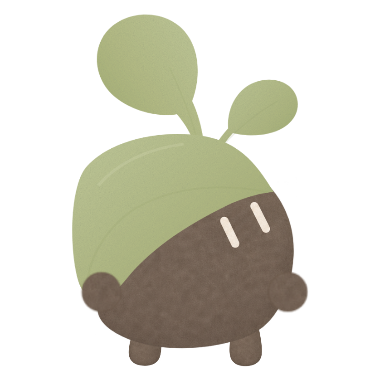
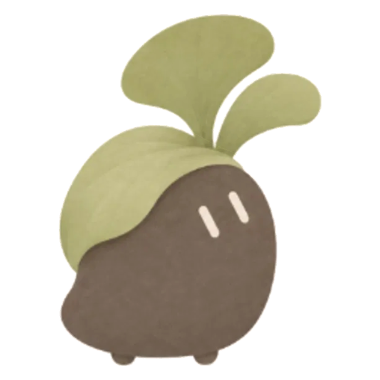
0.6.18: draw Ellisii from the approved target art (no arms)
The user asked for Ellisii to look exactly like the approved target art.
The art is cut into two layers in one coordinate frame:
- ellisii-fronds.png: the two fertile fronds (gentle sway, still when
  reduced motion is on)
- ellisii-body.png: asymmetric body, draped nest leaf, ivory eyes, tiny feet
ellisiiActor draws them with bob/tilt/squash and a closed-eye overlay that
reuses the body texture (no mouth or cheeks). No arm or leg sprites, as in
the art (species exception, like Elephan). The old leaf SVGs and the SVG
portrait are removed; the portrait is baked from the rig.
Tests updated (218/218, UI PASS). 0.6.18 / versionCode 35.

Claude-Session: https://claude.ai/code/session_01AkSebmy3Y1v8yPfHbxXfQs

Changed region(s): [[0.1447, 0.0289, 0.8684, 0.9842]]

diff --git a/app/src/main/assets/web/species-rig.js b/app/src/main/assets/web/species-rig.js
@@ -7,7 +7,7 @@ const cfg={duri:{w:.92,h:.98,leaf:[-14.3,-37.2,28.6,27.6],tempo:1.12,amp:1.2}};
 let mesh={};
 function initMesh(){if(!mesh.duri)mesh.duri=new (typeof Path2D!=='undefined'?Path2D:require('@napi-rs/canvas').Path2D)('M464 784 C464 730 456 700 438 687 C424 722 390 751 379 727 C370 705 400 679 410 666 C363 699 321 693 312 671 C304 651 328 637 370 621 C301 648 244 647 235 621 C228 592 284 567 359 558 C289 570 245 601 223 579 C202 554 261 518 331 499 C388 482 449 501 478 536 C491 552 509 570 518 584 C506 546 471 506 446 484 C406 464 394 431 413 415 C430 403 455 421 481 446 C450 407 457 367 477 364 C507 357 526 412 546 455 C563 489 568 518 571 540 C615 510 649 480 672 445 C697 406 699 377 678 350 C626 337 567 322 514 311 C452 297 407 284 414 261 C418 237 462 232 502 244 C552 262 589 281 614 297 C581 265 548 228 568 209 C590 185 628 220 652 243 C630 206 615 167 640 152 C674 135 706 169 722 206 C744 250 756 306 759 350 C771 306 777 254 792 212 C810 170 836 128 867 121 C909 114 915 144 899 173 C880 206 857 227 849 249 C888 217 929 194 958 207 C994 224 974 255 951 269 C1013 246 1064 252 1080 280 C1092 311 1045 331 996 348 C925 374 858 396 828 416 C812 433 800 462 799 494 C821 463 848 428 877 417 C907 405 921 425 903 448 C924 424 954 397 975 407 C998 423 980 454 962 478 C1008 459 1069 464 1083 488 C1094 517 1047 533 995 538 C953 541 921 555 907 575 C956 554 1022 555 1045 580 C1066 604 1037 624 999 623 C1053 636 1070 664 1052 682 C1036 700 1008 688 979 673 C1005 709 998 733 980 734 C953 738 945 704 934 681 C914 650 884 625 859 608 C817 579 790 554 767 533 C737 558 708 576 673 598 C590 648 516 721 464 784 Z');}
 const data={
-bonbon:{file:'exec-943eda32-df30-471b-a1df-31dea1a2b879.png',body:[60,140,520,492],leaf:[650,40,580,660],arms:[[98,840,209,350],[326,840,195,350]],legs:[[725,911,170,230],[957,910,172,231]],w:17,h:16.1,fol:[-13,-33,22,25.1],shield:[-13,-24,22,20],tempo:.72,eyes:[[.67,.37],[.83,.29]]},
+bonbon:{file:'exec-943eda32-df30-471b-a1df-31dea1a2b879.png',body:[60,140,520,492],leaf:[650,40,580,660],arms:[[98,840,209,350],[326,840,195,350]],legs:[[725,911,170,230],[957,910,172,231]],w:17,h:16.1,fol:[-13,-33,22,25.1],tempo:.72,eyes:[[.67,.37],[.83,.29]]},
 neolbi:{file:'exec-61298b59-50e2-4855-8d96-66ee5a637739.png',body:[65,185,529,350],leaf:[619,150,615,338],legs:[[750,893,132,90],[985,893,133,91]],w:32,h:21.2,fol:[-23,-32,46,25.3],tempo:.62,eyes:[[.49,.47],[.68,.47]]},
 bosong:{file:'exec-fca40df4-cab5-4d71-9958-52906ecf61a3.png',body:[173,65,330,563],leaf:[770,29,342,617],arms:[[131,835,156,351],[346,835,154,351]],legs:[[748,895,145,269],[952,895,147,269]],w:14,h:23.9,fol:[-9.2,-40.3,20,30.6],tempo:.8,eyes:[[.44,.37],[.74,.37]]},
 jureong:{file:'exec-934c2ffe-237d-42c0-9c88-f18cd5ea9a42.png',body:[52,246,541,258],leaf:[626,169,615,367],legs:[[752,906,150,104],[963,904,149,105]],w:38,h:18.1,fol:[-27,-33,54,32.2],tempo:.93,eyes:[[.34,.53],[.57,.53]]}
@@ -46,8 +46,19 @@ function duriActor(c,k,x,y,t,pose={}){
 }
 function img(c,d,r,x,y,w,h){c.drawImage(d.im,...r,x,y,w,h);if(r===d.leaf&&d.snow>0){const E=typeof module==='object'?require('./world-effects.js'):globalThis.ForestEffects;if(!d.snowLeaf){d.snowLeaf=createCanvas(r[2],r[3]);d.snowLeaf.getContext('2d').drawImage(d.im,...r,0,0,r[2],r[3]);}E.snow(c,d.snowLeaf,d.snow,x,y,w,h);}}
 function hatLayer(c,d,t,p,inside){const held=p.mode==='held',amp=held?.055:.012,phase=0,angle=(p.leafAngle||0)+Math.sin(t*5+phase)*amp;c.save();c.translate(0,-d.h*.83);c.rotate(angle);c.translate(0,d.h*.83);if(inside)c.drawImage(d.hat,243,876,865,338,-14,-22.5,29,12);else c.drawImage(d.hat,85,40,1090,645,-23,-35.5,46,27.2);c.restore();}
-function leafLayer(c,d,t,p){if(d===data.bonbon){const f=d.fol,held=p.mode==='held',wiggle=p.reduced?0:Math.sin(t*d.tempo*1.5)*(held?.020:.008);for(const [index,layer] of [A.ellisiiFertileLeft,A.ellisiiFertileRight,A.ellisiiShield].entries()){if(!layer)continue;c.save();c.translate(0,-d.h*.98);c.rotate(index===2?wiggle*.12:wiggle*(index===0?1:-.85));c.translate(0,d.h*.98);c.drawImage(layer,...(index===2&&d.shield?d.shield:f));c.restore();}return;}if(d===data.bosong){img(c,d,d.leaf,...d.fol);return;}if(d.hat){hatLayer(c,d,t,p,false);return;}const f=d.fol,held=p.mode==='held',safe=d===data.bosong?.018:.045,ang=(p.leafAngle||0)+Math.sin(t*(held?5:d.tempo*1.5))*(held?safe:.012);c.save();c.translate(0,-d.h*.78);c.rotate(ang);c.translate(0,d.h*.78);img(c,d,d.leaf,...f);c.restore();}
-function actor(c,k,x,y,t,p={}){if(!data[k])return duriActor(c,k,x,y,t,p);const d=data[k],g=p.growth??.65,m=p.mode||'idle',walk=['walk','run','slow'].includes(m),beat=Math.sin(t*d.tempo*(m==='run'?12:8)),rest=p.rest??(['sleep','rest','moss'].includes(m)?1:0),bob=walk?-Math.abs(beat)*.65:m==='held'?Math.sin(t*7)*.22:Math.sin(t*1.4)*.09;
+function leafLayer(c,d,t,p){if(d===data.bosong){img(c,d,d.leaf,...d.fol);return;}if(d.hat){hatLayer(c,d,t,p,false);return;}const f=d.fol,held=p.mode==='held',safe=d===data.bosong?.018:.045,ang=(p.leafAngle||0)+Math.sin(t*(held?5:d.tempo*1.5))*(held?safe:.012);c.save();c.translate(0,-d.h*.78);c.rotate(ang);c.translate(0,d.h*.78);img(c,d,d.leaf,...f);c.restore();}
+// Ellisii (legacy key 'bonbon') is drawn from layers cut out of the user-approved target art (01_APPROVED_Ellisii_TARGET):
+// back fertile fronds (gentle sway) + one body layer (body, draped nest leaf, eyes, tiny feet). No arms, as in the target.
+const ELLI={rect:[-10.23,-33,24.63,33],pivot:{x:3.33,y:-21.35},eyes:[[3.84,-13.54],[6.61,-14.9]],eyeR:[1.15,1.8],patch:[238,450,50,70]};
+function ellisiiActor(c,x,y,t,p){const d=data.bonbon,g=p.growth??.65,m=p.mode||'idle',walk=['walk','run','slow'].includes(m),beat=Math.sin(t*d.tempo*(m==='run'?12:8)),rest=p.rest??(['sleep','rest','moss'].includes(m)?1:0),bob=walk?-Math.abs(beat)*.65:m==='held'?Math.sin(t*7)*.22:Math.sin(t*1.4)*.09,body=A.ellisiiBody,fronds=A.ellisiiFronds,r=ELLI.rect;
+ c.save();c.translate(x,y);c.scale(g,g);c.translate(0,bob+rest*.7-(p.lift||0));c.rotate((p.tilt||0)+(m==='held'?Math.sin(t*5)*.075:walk?beat*.03:0));
+ const squash=walk?1-Math.abs(beat)*.025:rest?.985:1;c.scale(1/Math.sqrt(squash),squash);
+ if(fronds){const sway=p.reduced?0:Math.sin(t*d.tempo*1.5)*(m==='held'?.06:.025)+(walk?beat*.02:0);c.save();c.translate(ELLI.pivot.x,ELLI.pivot.y);c.rotate(sway);c.translate(-ELLI.pivot.x,-ELLI.pivot.y);c.drawImage(fronds,...r);c.restore();}
+ if(body)c.drawImage(body,...r);
+ // Closed eyes: cover each eye with plain body texture from the same layer, then draw a soft lid line. No mouth or cheeks.
+ if(body&&(m==='sleep'||m==='rest'||m==='moss'))for(const [ex,ey] of ELLI.eyes){c.save();c.beginPath();c.ellipse(ex,ey,ELLI.eyeR[0]+.25,ELLI.eyeR[1]+.25,0,0,7);c.clip();const q=ELLI.patch;c.drawImage(body,q[0],q[1],q[2],q[3],ex-1.8,ey-2.5,3.6,5);c.restore();c.strokeStyle='#f6ebd3';c.lineWidth=.42;c.lineCap='round';c.beginPath();c.moveTo(ex-.7,ey+.3);c.quadraticCurveTo(ex,ey+.9,ex+.7,ey+.3);c.stroke();}
+ c.restore();const toWorld=h=>({x:x+h.x*g,y:y+(h.y+bob+rest*.7-(p.lift||0))*g}),tip=toWorld({x:r[0]+3,y:-8});return{hands:[],tip,face:{x,y:y-16*g*.55},width:20.5*g,height:33*g};}
+function actor(c,k,x,y,t,p={}){if(k==='bonbon')return ellisiiActor(c,x,y,t,p);if(!data[k])return duriActor(c,k,x,y,t,p);const d=data[k],g=p.growth??.65,m=p.mode||'idle',walk=['walk','run','slow'].includes(m),beat=Math.sin(t*d.tempo*(m==='run'?12:8)),rest=p.rest??(['sleep','rest','moss'].includes(m)?1:0),bob=walk?-Math.abs(beat)*.65:m==='held'?Math.sin(t*7)*.22:Math.sin(t*1.4)*.09;
 c.save();c.translate(x,y);c.scale(g,g);c.translate(0,bob+rest*.7-(p.lift||0));c.rotate((p.tilt||0)+(m==='held'?Math.sin(t*5)*.075:0));if(d.hat)hatLayer(c,d,t,p,true);
 for(let i=0;i<2;i++){const s=i?1:-1;c.save();c.translate(s*d.w*.25,k==='bonbon'?-2.2:-3);c.rotate(walk?s*beat*.35:m==='held'?s*Math.sin(t*10+i)*.62:m==='splash'?s*Math.sin(t*7)*.25:0);img(c,d,d.legs[i],k==='bonbon'?-1.55:-1.9,k==='bonbon'?-2:-2.2,k==='bonbon'?3.1:3.8,k==='bonbon'?4.2:5.7);c.restore();}
 if(k==='bosong'){c.save();c.beginPath();c.ellipse(0,-d.h/2-1.5,d.w/2,d.h/2,0,0,Math.PI*2);c.clip();img(c,d,d.body,-d.w/2,-d.h-1.5,d.w,d.h);c.restore();}else img(c,d,d.body,-d.w/2,-d.h-1.5,d.w,d.h);
@@ -68,7 +79,7 @@ const f=d.fol,tip=k==='jureong'?{x:f[0]+2,y:f[1]+f[3]-3}:{x:f[0]+5,y:f[1]+f[3]-2
 const la=(p.leafAngle||0)+Math.sin(t*d.tempo*1.5)*.012, pivot=-d.h*.78, tx=tip.x,ty=tip.y-pivot;tip.x=tx*Math.cos(la)-ty*Math.sin(la);tip.y=pivot+tx*Math.sin(la)+ty*Math.cos(la);
 c.restore();const toWorld=h=>({x:x+h.x*g,y:y+(h.y+bob+rest*.7-(p.lift||0))*g});return{hands:hands.map(toWorld),tip:toWorld(tip),face:{x,y:y-d.h*g*.55},width:d.w*g,height:d.h*g};}
 
-const files={ellisiiFertileLeft:'assets/forest/species/ellisii-fertile-left.svg',ellisiiFertileRight:'assets/forest/species/ellisii-fertile-right.svg',ellisiiShield:'assets/forest/species/ellisii-shield.svg'};for(const k of ['bonbon','bosong','jureong','duri'])files['species_'+k]='assets/forest/species/'+k+'.png';
-function draw(c,assets,opt){const k=opt.species;if(!['bonbon','bosong','jureong','duri'].includes(k))return false;for(const name of Object.keys(data)){data[name].im=assets['species_'+name];data[name].snow=opt.snow||0;}A={snow:opt.snow||0,ellisiiFertileLeft:assets.ellisiiFertileLeft,ellisiiFertileRight:assets.ellisiiFertileRight,ellisiiShield:assets.ellisiiShield,body:assets.rigBody,palm:assets.rigPalm,'leg-left':assets.rigLegLeft,'leg-right':assets.rigLegRight,duri:assets.species_duri,duriBounds:[223,121,869,663]};if(k==='duri')initMesh();c.save();c.translate(627,1065.9);c.scale(1254/48,1254/48);actor(c,k,0,0,opt.reduced?1:opt.phase,{mode:opt.kind,growth:1,expr:opt.expression,noShadow:true,reduced:opt.reduced});c.restore();return true;}
+const files={ellisiiBody:'assets/forest/species/ellisii-body.png',ellisiiFronds:'assets/forest/species/ellisii-fronds.png'};for(const k of ['bonbon','bosong','jureong','duri'])files['species_'+k]='assets/forest/species/'+k+'.png';
+function draw(c,assets,opt){const k=opt.species;if(!['bonbon','bosong','jureong','duri'].includes(k))return false;for(const name of Object.keys(data)){data[name].im=assets['species_'+name];data[name].snow=opt.snow||0;}A={snow:opt.snow||0,ellisiiBody:assets.ellisiiBody,ellisiiFronds:assets.ellisiiFronds,body:assets.rigBody,palm:assets.rigPalm,'leg-left':assets.rigLegLeft,'leg-right':assets.rigLegRight,duri:assets.species_duri,duriBounds:[223,121,869,663]};if(k==='duri')initMesh();c.save();c.translate(627,1065.9);c.scale(1254/48,1254/48);actor(c,k,0,0,opt.reduced?1:opt.phase,{mode:opt.kind,growth:1,expr:opt.expression,noShadow:true,reduced:opt.reduced});c.restore();return true;}
 return {files,draw};
 });

diff --git a/app/src/main/assets/web/engine.js b/app/src/main/assets/web/engine.js
@@ -9,7 +9,7 @@ const Sh=typeof module==='object'?require('./shelter.js'):globalThis.ForestShelt
 const Env=typeof module==='object'?require('./environment.js'):globalThis.ForestEnvironment;
 const Rec=typeof module==='object'?require('./recruitment.js'):globalThis.ForestRecruitment;
 const Obj=typeof module==='object'?require('./objects.js'):globalThis.ForestObjects;
-const VERSION='0.6.17', RULES='SRS-2.19-objects', SCHEMA=1;
+const VERSION='0.6.18', RULES='SRS-2.19-objects', SCHEMA=1;
 const LEVELS=[0,3,8,15,25,40,60,85,115,150];
 const PATCHES=[
  {id:'rock',name:'햇살 바위',cap:2,pool:12,infiltration:4,drain:6,exposure:1,x:.73,y:.32},

diff --git a/HANDOFF.md b/HANDOFF.md
@@ -24,7 +24,7 @@
 | ChatGPT GitHub 연결 | 저장소 읽기 및 push 권한 확인 |
 | Claude 계정/저장소 접근 | 로그인 및 Git 경로로 이 저장소의 원격 main 읽기 확인 |
 | 공통 기록 대조 | 완료 — 아래 확인 스냅샷의 전체 커밋과 HANDOFF.md 해시 일치 |
-| 진행 중 제품 작업 | `SHELTER3-0.6.17-20261117` (Claude Code) — 이슈 #15 패치 3 |
+| 진행 중 제품 작업 | `ELLISII-0.6.18-20261117` (Claude Code) — 엘리시를 승인 원화 그대로 |
 
 ## 점검한 제품 기준선
 
@@ -50,6 +50,7 @@
 
 ## 현재 작업 / 다음 순서
 
+- 최신 작업: `ELLISII-0.6.18-20261117` — 사용자 제공 원화로 엘리시 레이어 제작, 팔 없음(결정 변경). 다음: 패치 5(낙엽 섹터·바닥 L 게이트), 6(생물).
 - 최신 작업: `SHELTER3-0.6.17-20261117` — 기본 쉼터 3명(12포인트+인원 상한), 엘레판 좌석 배정. 다음: 패치 4(엘리시 리깅·에셋, 팔 유지 결정), 5(낙엽 섹터·바닥 L 게이트), 6(생물).
 - 최신 작업: `PATCH-0.6.16-20261117` — 이슈 #15 검토의 패치 1(엘리시 V 잔재·초상화)·2(0.6.15 길찾기 성능 회귀). 패치 3~6(쉼터 3명, 엘리시 리깅, 낙엽 섹터, 생물)은 사용자 결정 3건 후 진행.
 - 최신 작업: `STONE-0.6.15-20261117` — 0.6.14(엘리시) 위에 햇살 바위 위 휴식·바위/바위틈 관통 수정, 0.6.15/versionCode32. 서명 APK·실기기 미완료.
@@ -171,7 +172,7 @@
 
 - 담당: Claude Code. 검토 전용(코드 변경 없음). 보고서·증거는 사용자에게 파일 전달, 요약은 이슈 #15 댓글(https://github.com/sia080808-lgtm/Forest-of-Space/issues/15#issuecomment-6961435210).
 - 판정: 수정 필요. P0 = 낱잎 분해 범위 미정의, L+U 포화로 자연 낙하 정지(기존 저장·현 신규 게임 O70/U30), 섹터 습도 미정의.
-- 사용자 결정(2026-11-17): (1) 엘리시 **팔 유지**(시안과 차이 있음, 종별 예외 두지 않음) → 엘리시 리깅 패치는 영양엽 감싸기·잎 질감·감은 눈 패치 중심. (2) 자연 낙하 판정 **바닥 낙엽 L만**(U 별도, 기존 L70은 섹터 더미로 이전, 자원 생성 없음). (3) 잎응애·잎지기 **기본 기후에서도 국소 건조 조건으로 가끔** 출현.
+- 사용자 결정(2026-11-17): (1) 엘리시 팔: 처음 '팔 유지'였으나 사용자가 원화 고해상도본을 주며 "이거랑 똑같이"를 요청해 **팔 없음 종별 예외로 변경**(0.6.18) → 엘리시 리깅 패치는 영양엽 감싸기·잎 질감·감은 눈 패치 중심. (2) 자연 낙하 판정 **바닥 낙엽 L만**(U 별도, 기존 L70은 섹터 더미로 이전, 자원 생성 없음). (3) 잎응애·잎지기 **기본 기후에서도 국소 건조 조건으로 가끔** 출현.
 
 ### PATCH-0.6.16-20261117 — 길찾기 성능 회복, 엘리시 레거시 정리
 
@@ -187,3 +188,10 @@
 - 테스트: `shelter-three.test.cjs`(5, 수정 전 전부 실패). 기존 6건 갱신(object-cards, shelter-traffic 066→SH24, shelter SH-AC03/06 ledger 형태, update218 확장 해금, ui-smoke '전체 3공간'). `npm test` 217/217, UI PASS.
 - 문서: `docs/Forest-Shelter-SRS-v2.24-SH24.md`(통합 PDF 반영 위치 명시), 릴리스 노트, 렌더 `docs/qa-0.6.17/runtime`. 버전 0.6.17/versionCode34.
 - 미검증: Android 실기기.
+
+### ELLISII-0.6.18-20261117 — 엘리시를 승인 원화 그대로
+
+- 담당: Claude Code. 요청: 사용자 "캐릭터 이거랑 똑같이 만들어 주면 안 됨?"(원화 스크린샷 제공). 이전 SVG 초안(`91270e4`)은 이번 커밋으로 대체.
+- 원화(사용자 업로드 스크린샷)를 배경 제거·윤곽 분리해 `ellisii-fronds.png`/`ellisii-body.png`로 저장(원화 파일 자체는 저장소에 넣지 않음). `species-rig.js` `ellisiiActor`(팔·다리 스프라이트 없음, 생식엽 흔들림, 감은 눈 덮기). 옛 잎 SVG 3장·SVG 초상화 삭제, 초상화는 리그에서 구운 PNG.
+- 테스트: `ellisii-legacy`·`render.test` 갱신. `npm test` 218/218, UI PASS. 렌더 `docs/qa-0.6.18/runtime`.
+- 한계: 엘리시에 눈 쌓임 오버레이 미적용, Android 실기기 미검증. 버전 0.6.18/versionCode35.

diff --git a/AGENTS.md b/AGENTS.md
@@ -1,3 +1,17 @@
+# APK0.6.18 · 엘리시를 승인 원화 그대로
+
+2026-11-17. 사용자 요청: "캐릭터 이거랑 똑같이"(승인 원화 01_APPROVED_Ellisii_TARGET 고해상도본 제공). 이슈 #15 패치 4.
+
+- 엘리시(내부 키 `bonbon`)를 사용자가 준 원화에서 잘라낸 두 레이어로 그린다: `ellisii-fronds.png`(뒤쪽 생식엽 2장, 미세하게 흔들림), `ellisii-body.png`(비대칭 회갈색 몸통·몸을 감싸는 영양엽·아이보리 세로 눈 2개·작은 발). 같은 좌표계 470×629, 리그 높이 33.
+- **팔 없음**: 원화에 팔이 없어 엘레판처럼 종별 예외로 둔다(이전 "팔 유지" 결정을 사용자의 최신 지시로 대체). 옛 봉봉 아틀라스의 팔·다리·SVG 잎 3장은 엘리시에 쓰지 않는다(`species-rig.js` `ellisiiActor`).
+- 모션: 걷기·달리기 들썩임과 기울기, 집기 흔들림, 휴식 시 살짝 낮춤, 생식엽 흔들림(동작 줄이기에서 정지). 잠·휴식·이끼에서는 같은 레이어의 몸통 질감으로 눈을 덮고 가는 감은 눈 선만 그린다(입·볼터치 없음).
+- 초상화: 새 리그에서 구운 `ellisii-portrait.png`(`tools/bake-ellisii-portrait.cjs`). 옛 SVG 초상화·잎 SVG 삭제.
+- 저장 스키마·종 ID·규칙 불변. 버전 0.6.18 / versionCode 35.
+
+검증: 자동 218/218(엘리시 레이어·팔 없음·옛 아틀라스 미사용 검사 갱신), DOM UI PASS. 원화 대 리그 렌더 비교, 11개 모션·표정·월드(리들리 옆) `docs/qa-0.6.18/runtime`. 눈 덮기(감은 눈)에 원래 눈 흔적 없음 확인. 알려진 한계: 눈 쌓임 오버레이는 엘리시 레이어에 아직 적용하지 않음. Android 실기기 미검증.
+
+---
+
 # APK0.6.17 · 기본 쉼터 3명 (SRS v2.24 SH24)
 
 2026-11-17. 이슈 #15 패치 3. 사용자 확정 원칙: 기본 쉼터에 일반 성체 최대 3명.

diff --git a/README.md b/README.md
@@ -1,3 +1,17 @@
+# APK0.6.18 · 엘리시를 승인 원화 그대로
+
+2026-11-17. 사용자 요청: "캐릭터 이거랑 똑같이"(승인 원화 01_APPROVED_Ellisii_TARGET 고해상도본 제공). 이슈 #15 패치 4.
+
+- 엘리시(내부 키 `bonbon`)를 사용자가 준 원화에서 잘라낸 두 레이어로 그린다: `ellisii-fronds.png`(뒤쪽 생식엽 2장, 미세하게 흔들림), `ellisii-body.png`(비대칭 회갈색 몸통·몸을 감싸는 영양엽·아이보리 세로 눈 2개·작은 발). 같은 좌표계 470×629, 리그 높이 33.
+- **팔 없음**: 원화에 팔이 없어 엘레판처럼 종별 예외로 둔다(이전 "팔 유지" 결정을 사용자의 최신 지시로 대체). 옛 봉봉 아틀라스의 팔·다리·SVG 잎 3장은 엘리시에 쓰지 않는다(`species-rig.js` `ellisiiActor`).
+- 모션: 걷기·달리기 들썩임과 기울기, 집기 흔들림, 휴식 시 살짝 낮춤, 생식엽 흔들림(동작 줄이기에서 정지). 잠·휴식·이끼에서는 같은 레이어의 몸통 질감으로 눈을 덮고 가는 감은 눈 선만 그린다(입·볼터치 없음).
+- 초상화: 새 리그에서 구운 `ellisii-portrait.png`(`tools/bake-ellisii-portrait.cjs`). 옛 SVG 초상화·잎 SVG 삭제.
+- 저장 스키마·종 ID·규칙 불변. 버전 0.6.18 / versionCode 35.
+
+검증: 자동 218/218(엘리시 레이어·팔 없음·옛 아틀라스 미사용 검사 갱신), DOM UI PASS. 원화 대 리그 렌더 비교, 11개 모션·표정·월드(리들리 옆) `docs/qa-0.6.18/runtime`. 눈 덮기(감은 눈)에 원래 눈 흔적 없음 확인. 알려진 한계: 눈 쌓임 오버레이는 엘리시 레이어에 아직 적용하지 않음. Android 실기기 미검증.
+
+---
+
 # APK0.6.17 · 기본 쉼터 3명 (SRS v2.24 SH24)
 
 2026-11-17. 이슈 #15 패치 3. 사용자 확정 원칙: 기본 쉼터에 일반 성체 최대 3명.

diff --git a/docs/IMPLEMENTATION_STATUS.md b/docs/IMPLEMENTATION_STATUS.md
@@ -1,3 +1,17 @@
+# APK0.6.18 · 엘리시를 승인 원화 그대로
+
+2026-11-17. 사용자 요청: "캐릭터 이거랑 똑같이"(승인 원화 01_APPROVED_Ellisii_TARGET 고해상도본 제공). 이슈 #15 패치 4.
+
+- 엘리시(내부 키 `bonbon`)를 사용자가 준 원화에서 잘라낸 두 레이어로 그린다: `ellisii-fronds.png`(뒤쪽 생식엽 2장, 미세하게 흔들림), `ellisii-body.png`(비대칭 회갈색 몸통·몸을 감싸는 영양엽·아이보리 세로 눈 2개·작은 발). 같은 좌표계 470×629, 리그 높이 33.
+- **팔 없음**: 원화에 팔이 없어 엘레판처럼 종별 예외로 둔다(이전 "팔 유지" 결정을 사용자의 최신 지시로 대체). 옛 봉봉 아틀라스의 팔·다리·SVG 잎 3장은 엘리시에 쓰지 않는다(`species-rig.js` `ellisiiActor`).
+- 모션: 걷기·달리기 들썩임과 기울기, 집기 흔들림, 휴식 시 살짝 낮춤, 생식엽 흔들림(동작 줄이기에서 정지). 잠·휴식·이끼에서는 같은 레이어의 몸통 질감으로 눈을 덮고 가는 감은 눈 선만 그린다(입·볼터치 없음).
+- 초상화: 새 리그에서 구운 `ellisii-portrait.png`(`tools/bake-ellisii-portrait.cjs`). 옛 SVG 초상화·잎 SVG 삭제.
+- 저장 스키마·종 ID·규칙 불변. 버전 0.6.18 / versionCode 35.
+
+검증: 자동 218/218(엘리시 레이어·팔 없음·옛 아틀라스 미사용 검사 갱신), DOM UI PASS. 원화 대 리그 렌더 비교, 11개 모션·표정·월드(리들리 옆) `docs/qa-0.6.18/runtime`. 눈 덮기(감은 눈)에 원래 눈 흔적 없음 확인. 알려진 한계: 눈 쌓임 오버레이는 엘리시 레이어에 아직 적용하지 않음. Android 실기기 미검증.
+
+---
+
 # APK0.6.17 · 기본 쉼터 3명 (SRS v2.24 SH24)
 
 2026-11-17. 이슈 #15 패치 3. 사용자 확정 원칙: 기본 쉼터에 일반 성체 최대 3명.

diff --git a/docs/Forest-0.6.18-Release.md b/docs/Forest-0.6.18-Release.md
@@ -1,0 +1,12 @@
+# APK0.6.18 · 엘리시를 승인 원화 그대로
+
+2026-11-17. 사용자 요청: "캐릭터 이거랑 똑같이"(승인 원화 01_APPROVED_Ellisii_TARGET 고해상도본 제공). 이슈 #15 패치 4.
+
+- 엘리시(내부 키 `bonbon`)를 사용자가 준 원화에서 잘라낸 두 레이어로 그린다: `ellisii-fronds.png`(뒤쪽 생식엽 2장, 미세하게 흔들림), `ellisii-body.png`(비대칭 회갈색 몸통·몸을 감싸는 영양엽·아이보리 세로 눈 2개·작은 발). 같은 좌표계 470×629, 리그 높이 33.
+- **팔 없음**: 원화에 팔이 없어 엘레판처럼 종별 예외로 둔다(이전 "팔 유지" 결정을 사용자의 최신 지시로 대체). 옛 봉봉 아틀라스의 팔·다리·SVG 잎 3장은 엘리시에 쓰지 않는다(`species-rig.js` `ellisiiActor`).
+- 모션: 걷기·달리기 들썩임과 기울기, 집기 흔들림, 휴식 시 살짝 낮춤, 생식엽 흔들림(동작 줄이기에서 정지). 잠·휴식·이끼에서는 같은 레이어의 몸통 질감으로 눈을 덮고 가는 감은 눈 선만 그린다(입·볼터치 없음).
+- 초상화: 새 리그에서 구운 `ellisii-portrait.png`(`tools/bake-ellisii-portrait.cjs`). 옛 SVG 초상화·잎 SVG 삭제.
+- 저장 스키마·종 ID·규칙 불변. 버전 0.6.18 / versionCode 35.
+
+검증: 자동 218/218(엘리시 레이어·팔 없음·옛 아틀라스 미사용 검사 갱신), DOM UI PASS. 원화 대 리그 렌더 비교, 11개 모션·표정·월드(리들리 옆) `docs/qa-0.6.18/runtime`. 눈 덮기(감은 눈)에 원래 눈 흔적 없음 확인. 알려진 한계: 눈 쌓임 오버레이는 엘리시 레이어에 아직 적용하지 않음. Android 실기기 미검증.
+
